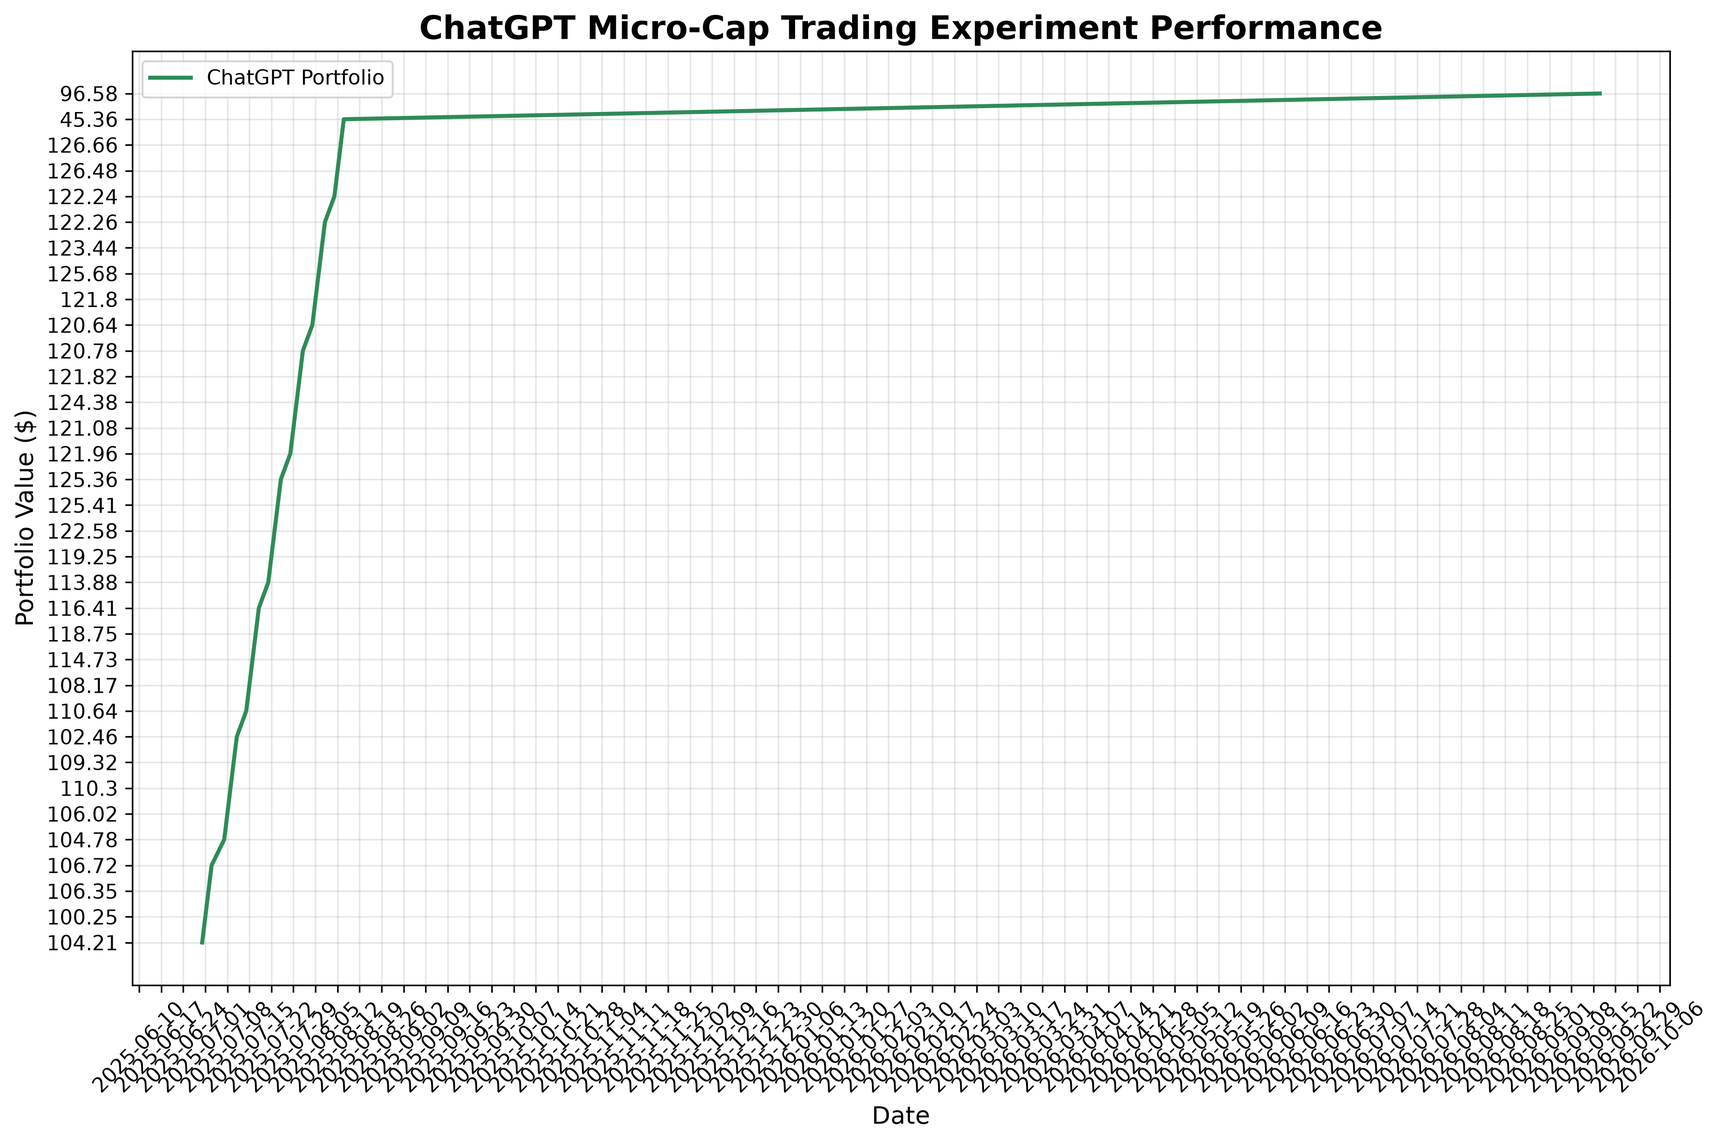
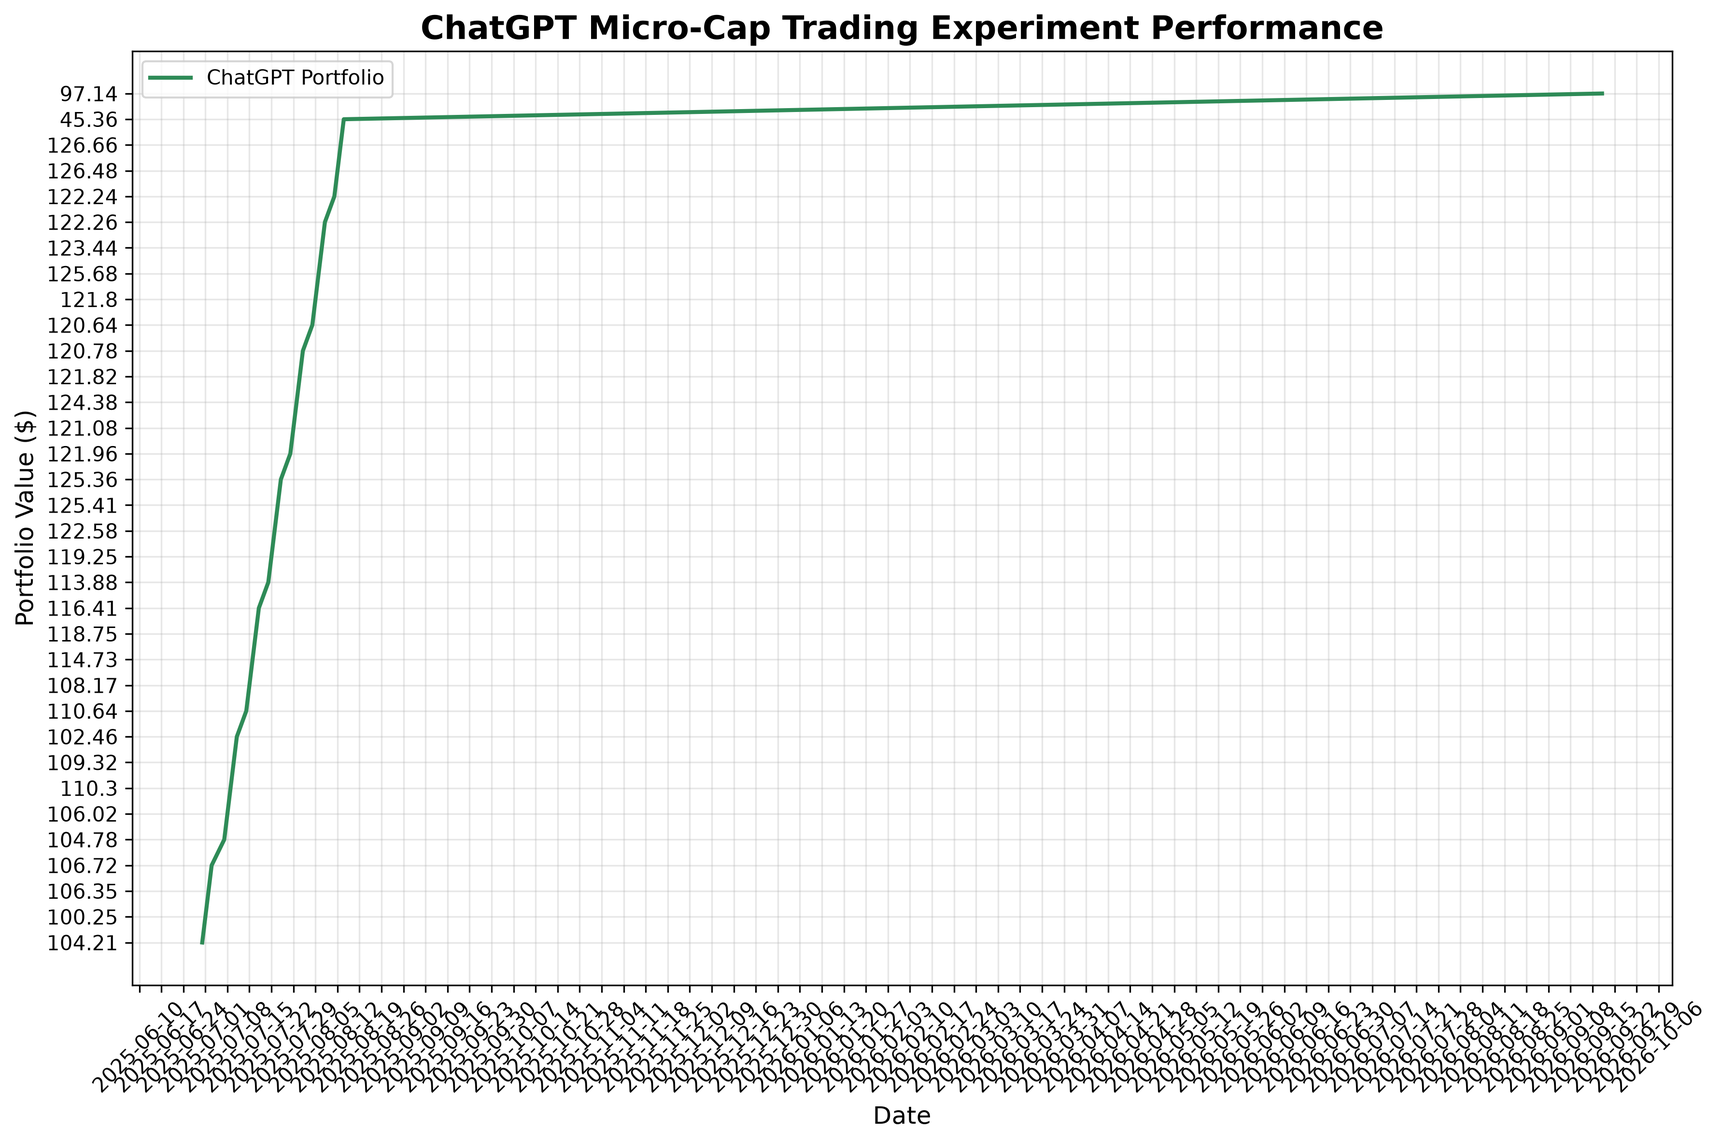
deploy: e15cad030d70fb3fbb51f9df6e22fa70c2f175c0

diff --git a/index.html b/index.html
@@ -105,7 +105,7 @@
                 <div class="stat-label">Total Trades</div>
             </div>
             <div class="stat-card">
-                <div class="stat-value" id="last-updated">2026-09-17</div>
+                <div class="stat-value" id="last-updated">2026-09-18</div>
                 <div class="stat-label">Last Updated</div>
             </div>
         </div>
@@ -160,8 +160,8 @@
     
     <script>
         // Portfolio data
-        const portfolioData = JSON.parse("[{&quot;Date&quot;: &quot;2025-08-11&quot;, &quot;Ticker&quot;: &quot;ABEO&quot;, &quot;Shares&quot;: 4.0, &quot;Buy Price&quot;: 5.77, &quot;Cost Basis&quot;: 23.08, &quot;Stop Loss&quot;: 4.9, &quot;Current Price&quot;: 6.28, &quot;Total Value&quot;: 25.12, &quot;PnL&quot;: 2.04, &quot;Action&quot;: &quot;HOLD&quot;, &quot;Cash Balance&quot;: NaN, &quot;Total Equity&quot;: NaN}, {&quot;Date&quot;: &quot;2025-08-11&quot;, &quot;Ticker&quot;: &quot;ACTU&quot;, &quot;Shares&quot;: 6.0, &quot;Buy Price&quot;: 5.75, &quot;Cost Basis&quot;: 34.5, &quot;Stop Loss&quot;: 4.89, &quot;Current Price&quot;: 8.01, &quot;Total Value&quot;: 48.06, &quot;PnL&quot;: 13.56, &quot;Action&quot;: &quot;HOLD&quot;, &quot;Cash Balance&quot;: NaN, &quot;Total Equity&quot;: NaN}, {&quot;Date&quot;: &quot;2025-08-11&quot;, &quot;Ticker&quot;: &quot;ESPR&quot;, &quot;Shares&quot;: 2.0, &quot;Buy Price&quot;: 1.91, &quot;Cost Basis&quot;: 3.82, &quot;Stop Loss&quot;: 1.6, &quot;Current Price&quot;: 1.85, &quot;Total Value&quot;: 3.7, &quot;PnL&quot;: -0.12, &quot;Action&quot;: &quot;HOLD&quot;, &quot;Cash Balance&quot;: NaN, &quot;Total Equity&quot;: NaN}, {&quot;Date&quot;: &quot;2025-08-11&quot;, &quot;Ticker&quot;: &quot;TOTAL&quot;, &quot;Shares&quot;: NaN, &quot;Buy Price&quot;: NaN, &quot;Cost Basis&quot;: NaN, &quot;Stop Loss&quot;: NaN, &quot;Current Price&quot;: NaN, &quot;Total Value&quot;: 76.88, &quot;PnL&quot;: 15.48, &quot;Action&quot;: NaN, &quot;Cash Balance&quot;: 45.36, &quot;Total Equity&quot;: &quot;122.24&quot;}, {&quot;Date&quot;: &quot;2025-08-12&quot;, &quot;Ticker&quot;: &quot;ABEO&quot;, &quot;Shares&quot;: 4.0, &quot;Buy Price&quot;: 5.77, &quot;Cost Basis&quot;: 23.08, &quot;Stop Loss&quot;: 4.9, &quot;Current Price&quot;: 6.38, &quot;Total Value&quot;: 25.52, &quot;PnL&quot;: 2.44, &quot;Action&quot;: &quot;HOLD&quot;, &quot;Cash Balance&quot;: NaN, &quot;Total Equity&quot;: NaN}, {&quot;Date&quot;: &quot;2025-08-12&quot;, &quot;Ticker&quot;: &quot;ACTU&quot;, &quot;Shares&quot;: 6.0, &quot;Buy Price&quot;: 5.75, &quot;Cost Basis&quot;: 34.5, &quot;Stop Loss&quot;: 4.89, &quot;Current Price&quot;: 8.67, &quot;Total Value&quot;: 52.02, &quot;PnL&quot;: 17.52, &quot;Action&quot;: &quot;HOLD&quot;, &quot;Cash Balance&quot;: NaN, &quot;Total Equity&quot;: NaN}, {&quot;Date&quot;: &quot;2025-08-12&quot;, &quot;Ticker&quot;: &quot;ESPR&quot;, &quot;Shares&quot;: 2.0, &quot;Buy Price&quot;: 1.91, &quot;Cost Basis&quot;: 3.82, &quot;Stop Loss&quot;: 1.6, &quot;Current Price&quot;: 1.79, &quot;Total Value&quot;: 3.58, &quot;PnL&quot;: -0.24, &quot;Action&quot;: &quot;HOLD&quot;, &quot;Cash Balance&quot;: NaN, &quot;Total Equity&quot;: NaN}, {&quot;Date&quot;: &quot;2025-08-12&quot;, &quot;Ticker&quot;: &quot;TOTAL&quot;, &quot;Shares&quot;: NaN, &quot;Buy Price&quot;: NaN, &quot;Cost Basis&quot;: NaN, &quot;Stop Loss&quot;: NaN, &quot;Current Price&quot;: NaN, &quot;Total Value&quot;: 81.12, &quot;PnL&quot;: 19.72, &quot;Action&quot;: NaN, &quot;Cash Balance&quot;: 45.36, &quot;Total Equity&quot;: &quot;126.48&quot;}, {&quot;Date&quot;: &quot;2025-08-13&quot;, &quot;Ticker&quot;: &quot;ABEO&quot;, &quot;Shares&quot;: 4.0, &quot;Buy Price&quot;: 5.77, &quot;Cost Basis&quot;: 23.08, &quot;Stop Loss&quot;: 4.9, &quot;Current Price&quot;: 6.56, &quot;Total Value&quot;: 26.24, &quot;PnL&quot;: 3.16, &quot;Action&quot;: &quot;HOLD&quot;, &quot;Cash Balance&quot;: NaN, &quot;Total Equity&quot;: NaN}, {&quot;Date&quot;: &quot;2025-08-13&quot;, &quot;Ticker&quot;: &quot;ACTU&quot;, &quot;Shares&quot;: 6.0, &quot;Buy Price&quot;: 5.75, &quot;Cost Basis&quot;: 34.5, &quot;Stop Loss&quot;: 4.89, &quot;Current Price&quot;: 8.53, &quot;Total Value&quot;: 51.18, &quot;PnL&quot;: 16.68, &quot;Action&quot;: &quot;HOLD&quot;, &quot;Cash Balance&quot;: NaN, &quot;Total Equity&quot;: NaN}, {&quot;Date&quot;: &quot;2025-08-13&quot;, &quot;Ticker&quot;: &quot;ESPR&quot;, &quot;Shares&quot;: 2.0, &quot;Buy Price&quot;: 1.91, &quot;Cost Basis&quot;: 3.82, &quot;Stop Loss&quot;: 1.6, &quot;Current Price&quot;: 1.94, &quot;Total Value&quot;: 3.88, &quot;PnL&quot;: 0.06, &quot;Action&quot;: &quot;HOLD&quot;, &quot;Cash Balance&quot;: NaN, &quot;Total Equity&quot;: NaN}, {&quot;Date&quot;: &quot;2025-08-13&quot;, &quot;Ticker&quot;: &quot;TOTAL&quot;, &quot;Shares&quot;: NaN, &quot;Buy Price&quot;: NaN, &quot;Cost Basis&quot;: NaN, &quot;Stop Loss&quot;: NaN, &quot;Current Price&quot;: NaN, &quot;Total Value&quot;: 81.3, &quot;PnL&quot;: 19.9, &quot;Action&quot;: NaN, &quot;Cash Balance&quot;: 45.36, &quot;Total Equity&quot;: &quot;126.66&quot;}, {&quot;Date&quot;: &quot;2025-08-14&quot;, &quot;Ticker&quot;: &quot;ABEO&quot;, &quot;Shares&quot;: 4.0, &quot;Buy Price&quot;: 5.77, &quot;Cost Basis&quot;: 23.08, &quot;Stop Loss&quot;: 4.9, &quot;Current Price&quot;: NaN, &quot;Total Value&quot;: NaN, &quot;PnL&quot;: NaN, &quot;Action&quot;: &quot;NO DATA&quot;, &quot;Cash Balance&quot;: NaN, &quot;Total Equity&quot;: NaN}, {&quot;Date&quot;: &quot;2025-08-14&quot;, &quot;Ticker&quot;: &quot;ACTU&quot;, &quot;Shares&quot;: 6.0, &quot;Buy Price&quot;: 5.75, &quot;Cost Basis&quot;: 34.5, &quot;Stop Loss&quot;: 4.89, &quot;Current Price&quot;: NaN, &quot;Total Value&quot;: NaN, &quot;PnL&quot;: NaN, &quot;Action&quot;: &quot;NO DATA&quot;, &quot;Cash Balance&quot;: NaN, &quot;Total Equity&quot;: NaN}, {&quot;Date&quot;: &quot;2025-08-14&quot;, &quot;Ticker&quot;: &quot;ESPR&quot;, &quot;Shares&quot;: 2.0, &quot;Buy Price&quot;: 1.91, &quot;Cost Basis&quot;: 3.82, &quot;Stop Loss&quot;: 1.6, &quot;Current Price&quot;: NaN, &quot;Total Value&quot;: NaN, &quot;PnL&quot;: NaN, &quot;Action&quot;: &quot;NO DATA&quot;, &quot;Cash Balance&quot;: NaN, &quot;Total Equity&quot;: NaN}, {&quot;Date&quot;: &quot;2025-08-14&quot;, &quot;Ticker&quot;: &quot;TOTAL&quot;, &quot;Shares&quot;: NaN, &quot;Buy Price&quot;: NaN, &quot;Cost Basis&quot;: NaN, &quot;Stop Loss&quot;: NaN, &quot;Current Price&quot;: NaN, &quot;Total Value&quot;: 0.0, &quot;PnL&quot;: 0.0, &quot;Action&quot;: NaN, &quot;Cash Balance&quot;: 45.36, &quot;Total Equity&quot;: &quot;45.36&quot;}, {&quot;Date&quot;: &quot;2026-09-17&quot;, &quot;Ticker&quot;: &quot;ABEO&quot;, &quot;Shares&quot;: 4.0, &quot;Buy Price&quot;: 5.77, &quot;Cost Basis&quot;: 23.08, &quot;Stop Loss&quot;: 4.9, &quot;Current Price&quot;: 5.47, &quot;Total Value&quot;: 21.88, &quot;PnL&quot;: -1.2, &quot;Action&quot;: &quot;HOLD&quot;, &quot;Cash Balance&quot;: NaN, &quot;Total Equity&quot;: NaN}, {&quot;Date&quot;: &quot;2026-09-17&quot;, &quot;Ticker&quot;: &quot;ACTU&quot;, &quot;Shares&quot;: 6.0, &quot;Buy Price&quot;: 5.75, &quot;Cost Basis&quot;: 34.5, &quot;Stop Loss&quot;: 4.89, &quot;Current Price&quot;: 4.89, &quot;Total Value&quot;: 29.34, &quot;PnL&quot;: -5.16, &quot;Action&quot;: &quot;SELL - Stop Loss Triggered&quot;, &quot;Cash Balance&quot;: NaN, &quot;Total Equity&quot;: NaN}, {&quot;Date&quot;: &quot;2026-09-17&quot;, &quot;Ticker&quot;: &quot;ESPR&quot;, &quot;Shares&quot;: 2.0, &quot;Buy Price&quot;: 1.91, &quot;Cost Basis&quot;: 3.82, &quot;Stop Loss&quot;: 1.6, &quot;Current Price&quot;: NaN, &quot;Total Value&quot;: NaN, &quot;PnL&quot;: NaN, &quot;Action&quot;: &quot;NO DATA&quot;, &quot;Cash Balance&quot;: NaN, &quot;Total Equity&quot;: NaN}, {&quot;Date&quot;: &quot;2026-09-17&quot;, &quot;Ticker&quot;: &quot;TOTAL&quot;, &quot;Shares&quot;: NaN, &quot;Buy Price&quot;: NaN, &quot;Cost Basis&quot;: NaN, &quot;Stop Loss&quot;: NaN, &quot;Current Price&quot;: NaN, &quot;Total Value&quot;: 21.88, &quot;PnL&quot;: -1.2, &quot;Action&quot;: NaN, &quot;Cash Balance&quot;: 74.7, &quot;Total Equity&quot;: &quot;96.58&quot;}]");
-        const tradeData = JSON.parse("[{&quot;Date&quot;: &quot;2025-07-08&quot;, &quot;Ticker&quot;: &quot;IINN&quot;, &quot;Shares Bought&quot;: 20.0, &quot;Buy Price&quot;: 1.5, &quot;Cost Basis&quot;: 30.0, &quot;PnL&quot;: 0.0, &quot;Reason&quot;: &quot;MANUAL BUY - New position&quot;, &quot;Shares Sold&quot;: NaN, &quot;Sell Price&quot;: NaN}, {&quot;Date&quot;: &quot;2025-07-21&quot;, &quot;Ticker&quot;: &quot;CADL&quot;, &quot;Shares Bought&quot;: NaN, &quot;Buy Price&quot;: NaN, &quot;Cost Basis&quot;: 25.2, &quot;PnL&quot;: 8.5, &quot;Reason&quot;: &quot;MANUAL SELL - GAIN CAPITAL FOR ACTU&quot;, &quot;Shares Sold&quot;: 5.0, &quot;Sell Price&quot;: 6.59}, {&quot;Date&quot;: &quot;2025-07-21&quot;, &quot;Ticker&quot;: &quot;ACTU&quot;, &quot;Shares Bought&quot;: 6.0, &quot;Buy Price&quot;: 5.75, &quot;Cost Basis&quot;: 34.5, &quot;PnL&quot;: 0.0, &quot;Reason&quot;: &quot;MANUAL BUY - New position&quot;, &quot;Shares Sold&quot;: NaN, &quot;Sell Price&quot;: NaN}, {&quot;Date&quot;: &quot;2025-07-28&quot;, &quot;Ticker&quot;: &quot;IINN&quot;, &quot;Shares Bought&quot;: NaN, &quot;Buy Price&quot;: NaN, &quot;Cost Basis&quot;: 9.0, &quot;PnL&quot;: -0.5400000000000009, &quot;Reason&quot;: &quot;MANUAL SELL - POSITION REDUCTION&quot;, &quot;Shares Sold&quot;: 6.0, &quot;Sell Price&quot;: 1.41}, {&quot;Date&quot;: &quot;2025-07-29&quot;, &quot;Ticker&quot;: &quot;AZTR&quot;, &quot;Shares Bought&quot;: NaN, &quot;Buy Price&quot;: NaN, &quot;Cost Basis&quot;: 13.75, &quot;PnL&quot;: -2.75, &quot;Reason&quot;: &quot;MANUAL SELL - DILUTION RISK&quot;, &quot;Shares Sold&quot;: 55.0, &quot;Sell Price&quot;: 0.2}, {&quot;Date&quot;: &quot;2025-08-01&quot;, &quot;Ticker&quot;: &quot;IINN&quot;, &quot;Shares Bought&quot;: 2.0, &quot;Buy Price&quot;: 1.74, &quot;Cost Basis&quot;: 3.48, &quot;PnL&quot;: 0.0, &quot;Reason&quot;: &quot;MANUAL BUY - New position&quot;, &quot;Shares Sold&quot;: NaN, &quot;Sell Price&quot;: NaN}, {&quot;Date&quot;: &quot;2025-08-01&quot;, &quot;Ticker&quot;: &quot;ABEO&quot;, &quot;Shares Bought&quot;: NaN, &quot;Buy Price&quot;: NaN, &quot;Cost Basis&quot;: 11.54, &quot;PnL&quot;: 1.200000000000001, &quot;Reason&quot;: &quot;MANUAL SELL - TRIM AFTER SUPPORT LOSS&quot;, &quot;Shares Sold&quot;: 2.0, &quot;Sell Price&quot;: 6.37}, {&quot;Date&quot;: &quot;2025-08-07&quot;, &quot;Ticker&quot;: &quot;ESPR&quot;, &quot;Shares Bought&quot;: 2.0, &quot;Buy Price&quot;: 1.91, &quot;Cost Basis&quot;: 3.82, &quot;PnL&quot;: 0.0, &quot;Reason&quot;: &quot;MANUAL BUY - New position&quot;, &quot;Shares Sold&quot;: NaN, &quot;Sell Price&quot;: NaN}, {&quot;Date&quot;: &quot;2025-08-08&quot;, &quot;Ticker&quot;: &quot;IINN&quot;, &quot;Shares Bought&quot;: NaN, &quot;Buy Price&quot;: NaN, &quot;Cost Basis&quot;: 1.5, &quot;PnL&quot;: -6.4, &quot;Reason&quot;: &quot;AUTOMATED SELL - STOPLOSS TRIGGERED&quot;, &quot;Shares Sold&quot;: 16.0, &quot;Sell Price&quot;: 1.1}, {&quot;Date&quot;: &quot;2026-09-17&quot;, &quot;Ticker&quot;: &quot;ACTU&quot;, &quot;Shares Bought&quot;: NaN, &quot;Buy Price&quot;: NaN, &quot;Cost Basis&quot;: 5.75, &quot;PnL&quot;: -5.16, &quot;Reason&quot;: &quot;AUTOMATED SELL - STOPLOSS TRIGGERED&quot;, &quot;Shares Sold&quot;: 6.0, &quot;Sell Price&quot;: 4.89}]");
+        const portfolioData = JSON.parse("[{&quot;Date&quot;: &quot;2025-08-11&quot;, &quot;Ticker&quot;: &quot;ABEO&quot;, &quot;Shares&quot;: 4.0, &quot;Buy Price&quot;: 5.77, &quot;Cost Basis&quot;: 23.08, &quot;Stop Loss&quot;: 4.9, &quot;Current Price&quot;: 6.28, &quot;Total Value&quot;: 25.12, &quot;PnL&quot;: 2.04, &quot;Action&quot;: &quot;HOLD&quot;, &quot;Cash Balance&quot;: NaN, &quot;Total Equity&quot;: NaN}, {&quot;Date&quot;: &quot;2025-08-11&quot;, &quot;Ticker&quot;: &quot;ACTU&quot;, &quot;Shares&quot;: 6.0, &quot;Buy Price&quot;: 5.75, &quot;Cost Basis&quot;: 34.5, &quot;Stop Loss&quot;: 4.89, &quot;Current Price&quot;: 8.01, &quot;Total Value&quot;: 48.06, &quot;PnL&quot;: 13.56, &quot;Action&quot;: &quot;HOLD&quot;, &quot;Cash Balance&quot;: NaN, &quot;Total Equity&quot;: NaN}, {&quot;Date&quot;: &quot;2025-08-11&quot;, &quot;Ticker&quot;: &quot;ESPR&quot;, &quot;Shares&quot;: 2.0, &quot;Buy Price&quot;: 1.91, &quot;Cost Basis&quot;: 3.82, &quot;Stop Loss&quot;: 1.6, &quot;Current Price&quot;: 1.85, &quot;Total Value&quot;: 3.7, &quot;PnL&quot;: -0.12, &quot;Action&quot;: &quot;HOLD&quot;, &quot;Cash Balance&quot;: NaN, &quot;Total Equity&quot;: NaN}, {&quot;Date&quot;: &quot;2025-08-11&quot;, &quot;Ticker&quot;: &quot;TOTAL&quot;, &quot;Shares&quot;: NaN, &quot;Buy Price&quot;: NaN, &quot;Cost Basis&quot;: NaN, &quot;Stop Loss&quot;: NaN, &quot;Current Price&quot;: NaN, &quot;Total Value&quot;: 76.88, &quot;PnL&quot;: 15.48, &quot;Action&quot;: NaN, &quot;Cash Balance&quot;: 45.36, &quot;Total Equity&quot;: &quot;122.24&quot;}, {&quot;Date&quot;: &quot;2025-08-12&quot;, &quot;Ticker&quot;: &quot;ABEO&quot;, &quot;Shares&quot;: 4.0, &quot;Buy Price&quot;: 5.77, &quot;Cost Basis&quot;: 23.08, &quot;Stop Loss&quot;: 4.9, &quot;Current Price&quot;: 6.38, &quot;Total Value&quot;: 25.52, &quot;PnL&quot;: 2.44, &quot;Action&quot;: &quot;HOLD&quot;, &quot;Cash Balance&quot;: NaN, &quot;Total Equity&quot;: NaN}, {&quot;Date&quot;: &quot;2025-08-12&quot;, &quot;Ticker&quot;: &quot;ACTU&quot;, &quot;Shares&quot;: 6.0, &quot;Buy Price&quot;: 5.75, &quot;Cost Basis&quot;: 34.5, &quot;Stop Loss&quot;: 4.89, &quot;Current Price&quot;: 8.67, &quot;Total Value&quot;: 52.02, &quot;PnL&quot;: 17.52, &quot;Action&quot;: &quot;HOLD&quot;, &quot;Cash Balance&quot;: NaN, &quot;Total Equity&quot;: NaN}, {&quot;Date&quot;: &quot;2025-08-12&quot;, &quot;Ticker&quot;: &quot;ESPR&quot;, &quot;Shares&quot;: 2.0, &quot;Buy Price&quot;: 1.91, &quot;Cost Basis&quot;: 3.82, &quot;Stop Loss&quot;: 1.6, &quot;Current Price&quot;: 1.79, &quot;Total Value&quot;: 3.58, &quot;PnL&quot;: -0.24, &quot;Action&quot;: &quot;HOLD&quot;, &quot;Cash Balance&quot;: NaN, &quot;Total Equity&quot;: NaN}, {&quot;Date&quot;: &quot;2025-08-12&quot;, &quot;Ticker&quot;: &quot;TOTAL&quot;, &quot;Shares&quot;: NaN, &quot;Buy Price&quot;: NaN, &quot;Cost Basis&quot;: NaN, &quot;Stop Loss&quot;: NaN, &quot;Current Price&quot;: NaN, &quot;Total Value&quot;: 81.12, &quot;PnL&quot;: 19.72, &quot;Action&quot;: NaN, &quot;Cash Balance&quot;: 45.36, &quot;Total Equity&quot;: &quot;126.48&quot;}, {&quot;Date&quot;: &quot;2025-08-13&quot;, &quot;Ticker&quot;: &quot;ABEO&quot;, &quot;Shares&quot;: 4.0, &quot;Buy Price&quot;: 5.77, &quot;Cost Basis&quot;: 23.08, &quot;Stop Loss&quot;: 4.9, &quot;Current Price&quot;: 6.56, &quot;Total Value&quot;: 26.24, &quot;PnL&quot;: 3.16, &quot;Action&quot;: &quot;HOLD&quot;, &quot;Cash Balance&quot;: NaN, &quot;Total Equity&quot;: NaN}, {&quot;Date&quot;: &quot;2025-08-13&quot;, &quot;Ticker&quot;: &quot;ACTU&quot;, &quot;Shares&quot;: 6.0, &quot;Buy Price&quot;: 5.75, &quot;Cost Basis&quot;: 34.5, &quot;Stop Loss&quot;: 4.89, &quot;Current Price&quot;: 8.53, &quot;Total Value&quot;: 51.18, &quot;PnL&quot;: 16.68, &quot;Action&quot;: &quot;HOLD&quot;, &quot;Cash Balance&quot;: NaN, &quot;Total Equity&quot;: NaN}, {&quot;Date&quot;: &quot;2025-08-13&quot;, &quot;Ticker&quot;: &quot;ESPR&quot;, &quot;Shares&quot;: 2.0, &quot;Buy Price&quot;: 1.91, &quot;Cost Basis&quot;: 3.82, &quot;Stop Loss&quot;: 1.6, &quot;Current Price&quot;: 1.94, &quot;Total Value&quot;: 3.88, &quot;PnL&quot;: 0.06, &quot;Action&quot;: &quot;HOLD&quot;, &quot;Cash Balance&quot;: NaN, &quot;Total Equity&quot;: NaN}, {&quot;Date&quot;: &quot;2025-08-13&quot;, &quot;Ticker&quot;: &quot;TOTAL&quot;, &quot;Shares&quot;: NaN, &quot;Buy Price&quot;: NaN, &quot;Cost Basis&quot;: NaN, &quot;Stop Loss&quot;: NaN, &quot;Current Price&quot;: NaN, &quot;Total Value&quot;: 81.3, &quot;PnL&quot;: 19.9, &quot;Action&quot;: NaN, &quot;Cash Balance&quot;: 45.36, &quot;Total Equity&quot;: &quot;126.66&quot;}, {&quot;Date&quot;: &quot;2025-08-14&quot;, &quot;Ticker&quot;: &quot;ABEO&quot;, &quot;Shares&quot;: 4.0, &quot;Buy Price&quot;: 5.77, &quot;Cost Basis&quot;: 23.08, &quot;Stop Loss&quot;: 4.9, &quot;Current Price&quot;: NaN, &quot;Total Value&quot;: NaN, &quot;PnL&quot;: NaN, &quot;Action&quot;: &quot;NO DATA&quot;, &quot;Cash Balance&quot;: NaN, &quot;Total Equity&quot;: NaN}, {&quot;Date&quot;: &quot;2025-08-14&quot;, &quot;Ticker&quot;: &quot;ACTU&quot;, &quot;Shares&quot;: 6.0, &quot;Buy Price&quot;: 5.75, &quot;Cost Basis&quot;: 34.5, &quot;Stop Loss&quot;: 4.89, &quot;Current Price&quot;: NaN, &quot;Total Value&quot;: NaN, &quot;PnL&quot;: NaN, &quot;Action&quot;: &quot;NO DATA&quot;, &quot;Cash Balance&quot;: NaN, &quot;Total Equity&quot;: NaN}, {&quot;Date&quot;: &quot;2025-08-14&quot;, &quot;Ticker&quot;: &quot;ESPR&quot;, &quot;Shares&quot;: 2.0, &quot;Buy Price&quot;: 1.91, &quot;Cost Basis&quot;: 3.82, &quot;Stop Loss&quot;: 1.6, &quot;Current Price&quot;: NaN, &quot;Total Value&quot;: NaN, &quot;PnL&quot;: NaN, &quot;Action&quot;: &quot;NO DATA&quot;, &quot;Cash Balance&quot;: NaN, &quot;Total Equity&quot;: NaN}, {&quot;Date&quot;: &quot;2025-08-14&quot;, &quot;Ticker&quot;: &quot;TOTAL&quot;, &quot;Shares&quot;: NaN, &quot;Buy Price&quot;: NaN, &quot;Cost Basis&quot;: NaN, &quot;Stop Loss&quot;: NaN, &quot;Current Price&quot;: NaN, &quot;Total Value&quot;: 0.0, &quot;PnL&quot;: 0.0, &quot;Action&quot;: NaN, &quot;Cash Balance&quot;: 45.36, &quot;Total Equity&quot;: &quot;45.36&quot;}, {&quot;Date&quot;: &quot;2026-09-18&quot;, &quot;Ticker&quot;: &quot;ABEO&quot;, &quot;Shares&quot;: 4.0, &quot;Buy Price&quot;: 5.77, &quot;Cost Basis&quot;: 23.08, &quot;Stop Loss&quot;: 4.9, &quot;Current Price&quot;: 5.61, &quot;Total Value&quot;: 22.44, &quot;PnL&quot;: -0.64, &quot;Action&quot;: &quot;HOLD&quot;, &quot;Cash Balance&quot;: NaN, &quot;Total Equity&quot;: NaN}, {&quot;Date&quot;: &quot;2026-09-18&quot;, &quot;Ticker&quot;: &quot;ACTU&quot;, &quot;Shares&quot;: 6.0, &quot;Buy Price&quot;: 5.75, &quot;Cost Basis&quot;: 34.5, &quot;Stop Loss&quot;: 4.89, &quot;Current Price&quot;: 4.89, &quot;Total Value&quot;: 29.34, &quot;PnL&quot;: -5.16, &quot;Action&quot;: &quot;SELL - Stop Loss Triggered&quot;, &quot;Cash Balance&quot;: NaN, &quot;Total Equity&quot;: NaN}, {&quot;Date&quot;: &quot;2026-09-18&quot;, &quot;Ticker&quot;: &quot;ESPR&quot;, &quot;Shares&quot;: 2.0, &quot;Buy Price&quot;: 1.91, &quot;Cost Basis&quot;: 3.82, &quot;Stop Loss&quot;: 1.6, &quot;Current Price&quot;: NaN, &quot;Total Value&quot;: NaN, &quot;PnL&quot;: NaN, &quot;Action&quot;: &quot;NO DATA&quot;, &quot;Cash Balance&quot;: NaN, &quot;Total Equity&quot;: NaN}, {&quot;Date&quot;: &quot;2026-09-18&quot;, &quot;Ticker&quot;: &quot;TOTAL&quot;, &quot;Shares&quot;: NaN, &quot;Buy Price&quot;: NaN, &quot;Cost Basis&quot;: NaN, &quot;Stop Loss&quot;: NaN, &quot;Current Price&quot;: NaN, &quot;Total Value&quot;: 22.44, &quot;PnL&quot;: -0.64, &quot;Action&quot;: NaN, &quot;Cash Balance&quot;: 74.7, &quot;Total Equity&quot;: &quot;97.14&quot;}]");
+        const tradeData = JSON.parse("[{&quot;Date&quot;: &quot;2025-07-08&quot;, &quot;Ticker&quot;: &quot;IINN&quot;, &quot;Shares Bought&quot;: 20.0, &quot;Buy Price&quot;: 1.5, &quot;Cost Basis&quot;: 30.0, &quot;PnL&quot;: 0.0, &quot;Reason&quot;: &quot;MANUAL BUY - New position&quot;, &quot;Shares Sold&quot;: NaN, &quot;Sell Price&quot;: NaN}, {&quot;Date&quot;: &quot;2025-07-21&quot;, &quot;Ticker&quot;: &quot;CADL&quot;, &quot;Shares Bought&quot;: NaN, &quot;Buy Price&quot;: NaN, &quot;Cost Basis&quot;: 25.2, &quot;PnL&quot;: 8.5, &quot;Reason&quot;: &quot;MANUAL SELL - GAIN CAPITAL FOR ACTU&quot;, &quot;Shares Sold&quot;: 5.0, &quot;Sell Price&quot;: 6.59}, {&quot;Date&quot;: &quot;2025-07-21&quot;, &quot;Ticker&quot;: &quot;ACTU&quot;, &quot;Shares Bought&quot;: 6.0, &quot;Buy Price&quot;: 5.75, &quot;Cost Basis&quot;: 34.5, &quot;PnL&quot;: 0.0, &quot;Reason&quot;: &quot;MANUAL BUY - New position&quot;, &quot;Shares Sold&quot;: NaN, &quot;Sell Price&quot;: NaN}, {&quot;Date&quot;: &quot;2025-07-28&quot;, &quot;Ticker&quot;: &quot;IINN&quot;, &quot;Shares Bought&quot;: NaN, &quot;Buy Price&quot;: NaN, &quot;Cost Basis&quot;: 9.0, &quot;PnL&quot;: -0.5400000000000009, &quot;Reason&quot;: &quot;MANUAL SELL - POSITION REDUCTION&quot;, &quot;Shares Sold&quot;: 6.0, &quot;Sell Price&quot;: 1.41}, {&quot;Date&quot;: &quot;2025-07-29&quot;, &quot;Ticker&quot;: &quot;AZTR&quot;, &quot;Shares Bought&quot;: NaN, &quot;Buy Price&quot;: NaN, &quot;Cost Basis&quot;: 13.75, &quot;PnL&quot;: -2.75, &quot;Reason&quot;: &quot;MANUAL SELL - DILUTION RISK&quot;, &quot;Shares Sold&quot;: 55.0, &quot;Sell Price&quot;: 0.2}, {&quot;Date&quot;: &quot;2025-08-01&quot;, &quot;Ticker&quot;: &quot;IINN&quot;, &quot;Shares Bought&quot;: 2.0, &quot;Buy Price&quot;: 1.74, &quot;Cost Basis&quot;: 3.48, &quot;PnL&quot;: 0.0, &quot;Reason&quot;: &quot;MANUAL BUY - New position&quot;, &quot;Shares Sold&quot;: NaN, &quot;Sell Price&quot;: NaN}, {&quot;Date&quot;: &quot;2025-08-01&quot;, &quot;Ticker&quot;: &quot;ABEO&quot;, &quot;Shares Bought&quot;: NaN, &quot;Buy Price&quot;: NaN, &quot;Cost Basis&quot;: 11.54, &quot;PnL&quot;: 1.200000000000001, &quot;Reason&quot;: &quot;MANUAL SELL - TRIM AFTER SUPPORT LOSS&quot;, &quot;Shares Sold&quot;: 2.0, &quot;Sell Price&quot;: 6.37}, {&quot;Date&quot;: &quot;2025-08-07&quot;, &quot;Ticker&quot;: &quot;ESPR&quot;, &quot;Shares Bought&quot;: 2.0, &quot;Buy Price&quot;: 1.91, &quot;Cost Basis&quot;: 3.82, &quot;PnL&quot;: 0.0, &quot;Reason&quot;: &quot;MANUAL BUY - New position&quot;, &quot;Shares Sold&quot;: NaN, &quot;Sell Price&quot;: NaN}, {&quot;Date&quot;: &quot;2025-08-08&quot;, &quot;Ticker&quot;: &quot;IINN&quot;, &quot;Shares Bought&quot;: NaN, &quot;Buy Price&quot;: NaN, &quot;Cost Basis&quot;: 1.5, &quot;PnL&quot;: -6.4, &quot;Reason&quot;: &quot;AUTOMATED SELL - STOPLOSS TRIGGERED&quot;, &quot;Shares Sold&quot;: 16.0, &quot;Sell Price&quot;: 1.1}, {&quot;Date&quot;: &quot;2026-09-18&quot;, &quot;Ticker&quot;: &quot;ACTU&quot;, &quot;Shares Bought&quot;: NaN, &quot;Buy Price&quot;: NaN, &quot;Cost Basis&quot;: 5.75, &quot;PnL&quot;: -5.16, &quot;Reason&quot;: &quot;AUTOMATED SELL - STOPLOSS TRIGGERED&quot;, &quot;Shares Sold&quot;: 6.0, &quot;Sell Price&quot;: 4.89}]");
         
         // Update total equity
         if (portfolioData.length > 0) {
